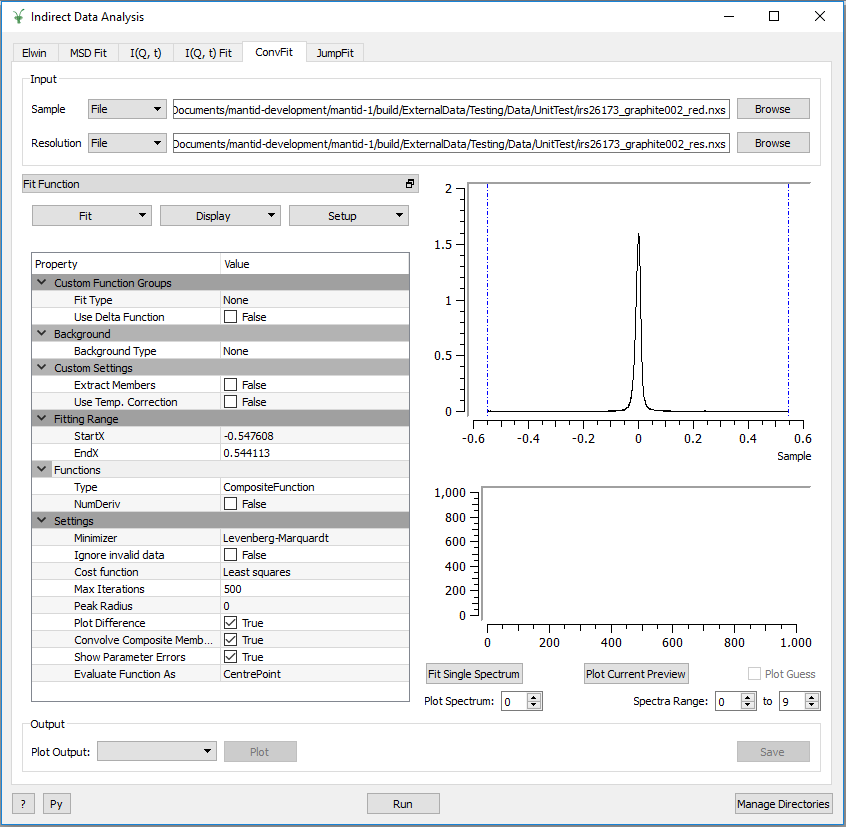
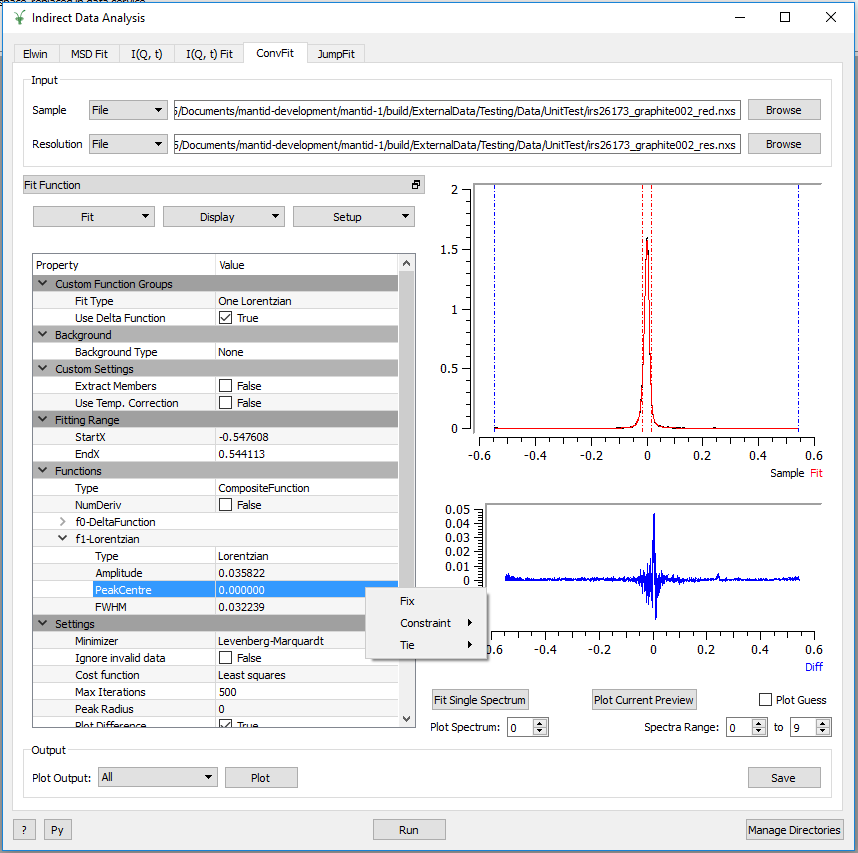
Update release notes

Changed region(s): [[0.0, 0.0, 1.0, 0.9976], [0.4303, 0.9371, 0.5225, 0.9976]]

diff --git a/docs/source/release/v3.12.0/indirect_inelastic.rst b/docs/source/release/v3.12.0/indirect_inelastic.rst
@@ -25,6 +25,7 @@ Improved
 - :ref:`IqtFitSequential <algm-IqtFitSequential>` and `IqtFitMultiple <algm-IqtFitMultiple>` can now both extract members from the fit (when the ExtractMembers property is set to True).
 - Loading the sample log files into a workspace can be disabled when calling the :ref:`LoadVesuvio <algm-LoadVesuvio>` algorithm by supplying `LoadLogFiles=False` to the algorithm call
 
+
 Vesuvio
 -------
 
@@ -41,6 +42,7 @@ Bugfixes
 ########
 - Previously, running a script which only applied a single correction (e.g. container subtraction), would produce an error 'f0.Scaling', this has now been fixed.
 
+
 Data Analysis Interfaces
 ------------------------
 
@@ -48,19 +50,22 @@ New
 ###
 - ConvFit, IqtFit, MSDFit and JumpFit now have a second mini-plot for the difference. The sample and calculated fit are found in the top mini-plot, the difference is found in the bottom mini-plot.
 - The function browser in each of the Fitting tabs (ConvFit, IqtFit, MSDFit, JumpFit) has been replaced with a new IndirectFitPropertyBrowser widget (which can be separated and embedded into the fit interfaces).
+
    .. figure:: ../../images/Indirect_ConvFit_3_12_release.png
       :class: screenshot
-      :align: right
+      :align: center
       :width: 500 px
+
+   The new design of the Indirect Fitting tabs, shown here within ConvFit (the IndirectFitPropertyBrowser is seen on the left and can be ejected into a separate window).
 
 - The IndirectFitPropertyBrowser widget provides the following additional functionality to the Indirect Fit Interfaces (MSDFit, IqtFit, ConvFit, JumpFit):
   - Ties can now be used to tie parameters between all functions and custom ties (involving mathematical expressions) are now available.
   - It is now possible to add constraints to parameters.
-  - Any additional functions can be added from the library of available MANTID functions by right-clicking and selecting 'Add Function'.
-  - Function setups can now be saved and re-loaded (Custom Setups).
+  - Any additional functions can be added from the library of available MANTID functions by right-clicking on 'Functions' in the browser and selecting 'Add Function'.
+  - Function setups can now be saved and re-loaded (Custom Setups) from the 'Setup' menu.
   - Functions can be copied and loaded from the clipboard.
   - Right-clicking on any function in the browser and selecting 'Help' will open a window containing the documentation for that function.
-  - The guess can be plot in a separate window from the interface (automatically updates as the fit model is changed).
+  - The guess can be plot in a separate window from the interface (automatically updates as the fit model is changed), accessible through the 'Display' menu.
 
 Improved
 ########
@@ -69,6 +74,7 @@ Improved
 - The ExtractMembers option in the ConvFit Interface will now function correctly for diffusion functions.
 - The ExtractMembers option is now available in the IqtFit interface.
 - The parameter ties created by the 'Constrain Intensities' option in the IqtFit interface, are now shown in the function browser.
+- 'Plot Current Preview' plots input if a fit has yet to be calculated and is disabled if no input workspace has been provided.
 
 Bugfixes
 ########
@@ -76,7 +82,6 @@ Bugfixes
 - In the IqtFit interface, the 'AO' parameter now defaults to 0.
 - The mini preview plot now updates correctly in the Indirect Data Analysis interfaces, when the fit function is changed; when changed to a function that wasn't used in the most recent fit, will plot only the sample, else will plot the sample, fit and difference.
 - Plotting individual parameters of the fit in the interface ('Plot Options'), will no longer produce an error in the ConvFit interface, when plotting 'FWHM'.
-- In the Calculate Paalman Pings tab of the Indirect Correction interface the container back thickness is now set correctly.
 
 
 Diffraction
@@ -86,6 +91,7 @@ Improved
 ########
 - Manual D-Range option removed from the indirect diffraction reduction interface; D-Ranges are now automatically calculated for sample, container and vanadium runs.
 
+
 Corrections Interfaces
 ----------------------
 
@@ -94,11 +100,16 @@ Improved
 - The Apply Paalman Pings interface has been renamed to Apply Absorption Correction.
 - The Apply Absorption Correction interface no longer requires workspaces to be in units of wavelength (this is done within :ref:`algm-ApplyPaalmanPingsCorrection`).
 
+Bugfixes
+########
+- In the Calculate Paalman Pings tab of the Indirect Correction interface the container back thickness is now set correctly.
+
+
 Abins
 -----
 
 Improved
 ########
-- Performance of Abins routines significantly improved (a factor of 10-20 times for data size of 4000).
+- Performance of Abins rebinning routines significantly improved (a factor of 10-20 times for data size of 4000).
 
 :ref:`Release 3.12.0 <v3.12.0>`
